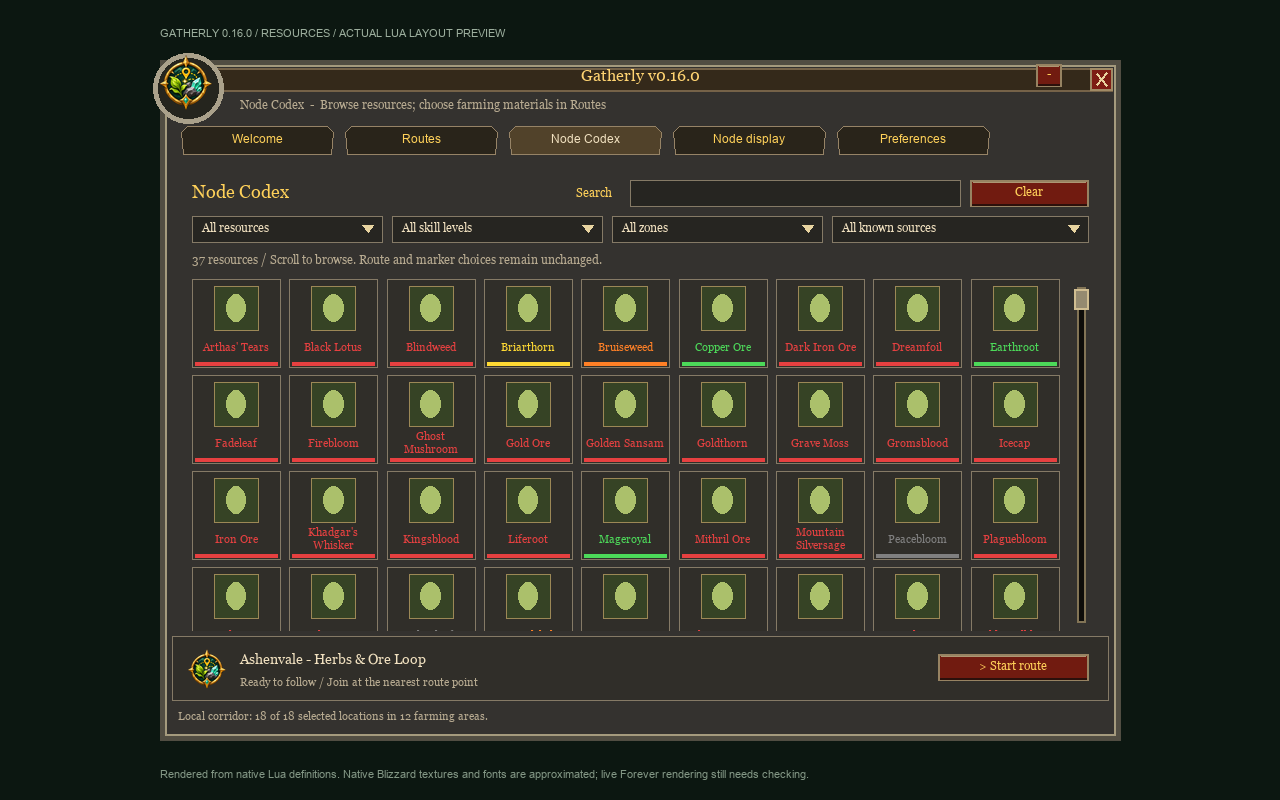
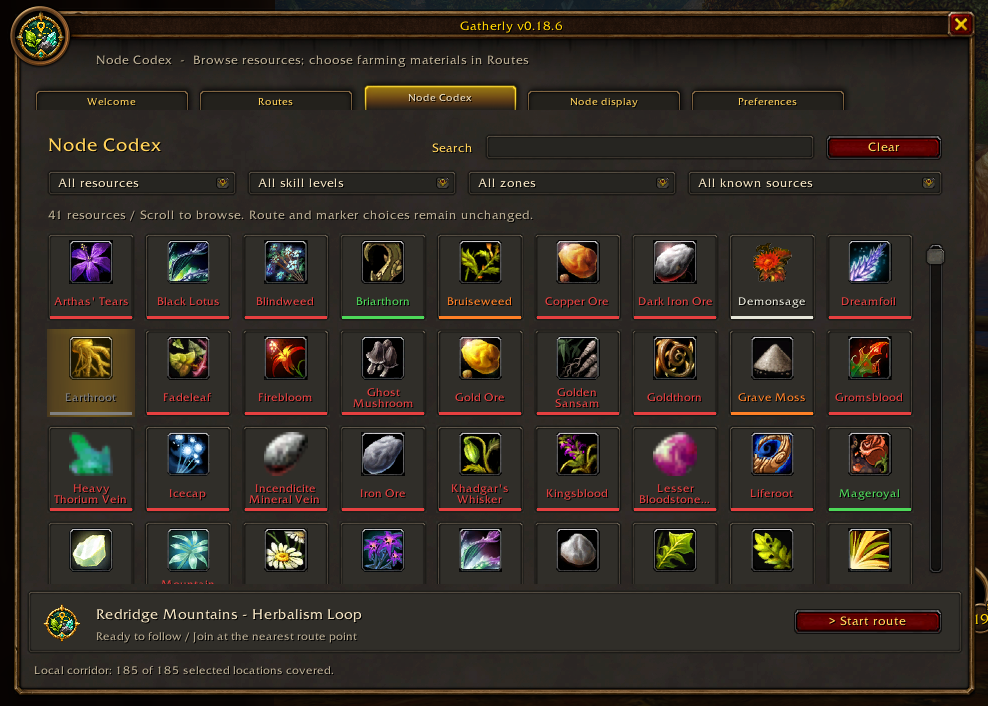
Replace UI previews with in-game screenshots

diff --git a/tests/curseforge_release.py b/tests/curseforge_release.py
@@ -20,8 +20,8 @@ w, h = struct.unpack('>II', icon[16:24])
 assert w == h and w >= 400
 description = (dist / data['description']).read_text(encoding='utf-8')
 assert description == (root / 'docs/curseforge-description.md').read_text(encoding='utf-8')
-assert 'not in-game screenshots' in description and '16001' in description
-for image in re.findall(r'https://raw.githubusercontent.com/Red463/Gatherly/v1\.0\.0/([^\s)]+)', description):
+assert 'in-game screenshots' in description and 'v0.18.6' in description and '16001' in description
+for image in re.findall(r'https://raw.githubusercontent.com/Red463/Gatherly/(?:v1\.0\.0|main)/([^\s)]+)', description):
     assert (root / image).is_file(), image
 changes = (dist / data['changelog']).read_text(encoding='utf-8')
 assert changes.startswith('## Gatherly 1.0.0\n') and 'EQoL' in changes and '## 0.' not in changes

diff --git a/tools/check_publication.py b/tools/check_publication.py
@@ -10,7 +10,9 @@ license_text = (root / 'LICENSE').read_text(encoding='utf-8')
 assert license_text.startswith('MIT License\n')
 assert 'Copyright (c) 2026 Tom' in license_text
 assert 'Bundled third-party libraries retain' in readme
-assert 'layout previews' in readme and 'not\nin-game screenshots' in readme
+assert 'in-game screenshots supplied by the author' in readme and '**v0.18.6**' in readme
+for diagram in ('coverage', 'route-order', 'minimap-smoothing'):
+    assert f'Generated {diagram} diagram:' in readme
 
 links = re.findall(r'!?\[[^\]]*\]\(([^)]+)\)', readme)
 links += re.findall(r'<img[^>]+src="([^"]+)"', readme)

diff --git a/README.md b/README.md
@@ -54,7 +54,7 @@ settings are unaffected.
 Untick **Show route controls** on the **Routes** page to disable it. The arrow and
 route guidance continue normally.
 
-![Movable Classic route controls with a minimap heatmap colour menu](docs/images/route-controls.png)
+![In-game compact route controls with Stop, Open panel, Skip and a heatmap colour swatch](docs/images/route-controls.png)
 
 ## Install
 
@@ -122,9 +122,10 @@ without an external data pack.
 
 ## Image examples
 
-These are **layout previews rendered from the addon's Lua UI**, with substitute
-fonts, placeholder resource icons and an illustrative map canvas. They are not
-in-game screenshots; actual Forever textures and rendering can differ.
+The interface examples are **in-game screenshots supplied by the author**, captured
+with Gatherly **v0.18.6** on WoW Forever. The visible version labels and settings are
+unchanged; the current release may differ slightly. The coverage, route-order and
+minimap-smoothing diagrams are generated illustrations, labelled separately below.
 
 ### Welcome and route targets
 
@@ -139,8 +140,6 @@ review sketch. Everyday map markers have separate selections under **Node displa
 Visible nodes**. Both use source/type checkboxes and skill-coloured materials. The route material list supports mouse-wheel
 scrolling and a scrollbar, with icons and skill-coloured names.
 
-![Checkbox filters and a vertically scrolling material list](docs/images/filters.png)
-
 ### Generate and review
 
 Choose materials, then use **Generate & start** or **Generate & review**. Click a node
@@ -151,7 +150,7 @@ map overlays are loaded from the client using attributed MIT metadata. If an art
 is not covered, the sketch falls back to native explored artwork. No OpenMap addon
 is required.
 
-![Large map-backed route review with node selection, removal and undo](docs/images/routes.png)
+![In-game Routes page with herb checkboxes and a line route over Redridge Mountains](docs/images/routes.png)
 
 The generator optimizes the order of the current farming areas to reduce crossings
 and repeated travel, then simplifies the centre path while keeping those locations
@@ -173,13 +172,13 @@ a new generation measures it again. Existing active routes are preserved until
 you replace them. Direct **Guide nearest** in Node Codex still targets that resource
 location and does not require corridor calibration.
 
-![The same corridor in Lines and Heatmap, with a covered spawn outside the painted band](docs/images/corridor-coverage.png)
+![Generated coverage diagram: the same corridor in Lines and Heatmap, with a covered spawn outside the painted band](docs/images/corridor-coverage.png)
 
 Some return trips remain necessary where a farming branch has only one short
 connection. Routes use map distances and cannot identify mountains, bridges or
 walkable roads from spawn coordinates.
 
-![Synthetic comparison with the same 94 farming areas before and after route-order optimization](docs/images/route-order.png)
+![Generated route-order diagram: the same 94 farming areas before and after optimization](docs/images/route-order.png)
 
 ### Overlapping nodes
 
@@ -211,8 +210,6 @@ required stop. Explicit travel waypoints remain, and a collected stop may serve 
 a travel waypoint when bypassing it would exceed the route's connection limit.
 Stored node locations and history are preserved.
 
-![Grouped review markers with an individual-location chooser](docs/images/grouped-nodes.png)
-
 ### Node Codex
 
 Node Codex combines the previous Atlas and Resources pages. Browse the full supported
@@ -232,8 +229,6 @@ actions identify an active route override or the opacity setting when relevant.
 Items without location data remain in the default full catalogue.
 
 ![Node Codex with skill-coloured tiles and browsing filters](docs/images/node-codex.png)
-
-![Codex skill guidance, history, ranked zones and current-zone actions](docs/images/codex-details.png)
 
 ### Heatmap corridor
 
@@ -258,11 +253,9 @@ custom minimap shapes hide heat rather than spilling outside the map. When Forev
 ignores minimap rotation, an addon-owned projection keeps icons, outlines and the
 destination aligned with the heat without modifying the shared pin library.
 
-![Soft density corridor over an illustrative map](docs/images/route-heatmap.png)
+![In-game heatmap route review over Redridge Mountains](docs/images/route-heatmap.png)
 
-![Amber minimap heat on illustrative dark terrain, with simulated tracking dots and player clearance](docs/images/minimap-heat.png)
-
-![Before and after minimap banding correction, rendered from actual Lua paint output over a flat background](docs/images/minimap-smoothing.png)
+![Generated minimap-smoothing diagram: before and after banding correction, rendered from Lua paint output over a flat background](docs/images/minimap-smoothing.png)
 
 ### Guide arrow
 
@@ -276,7 +269,7 @@ The waypoint arrival distance in Preferences applies immediately to the current
 route. Guidance waits during gathering; nearby overlapping stops retain movement
 protection so a stationary player cannot repeatedly advance through a loop.
 
-![Gold guide arrow with distance, optional next resource and waypoint/lap progress](docs/images/guide-arrow.png)
+![In-game gold guide arrow with distance, Farming corridor label and waypoint/lap progress](docs/images/guide-arrow.png)
 
 ## First farming loop
 
@@ -352,10 +345,6 @@ of node-marker visibility. Zero opacity hides that overlay without changing
 coverage, guidance or markers. Existing minimap opacity seeds both new minimap
 values; world values begin at their previous full strength.
 
-![World-map marker controls and preview](docs/images/node-display.png)
-
-![Minimap markers, tracking clearance and route-overlay controls](docs/images/node-display-mini.png)
-
 **Preferences** groups Navigation, Guide arrow and Panel & minimap controls.
 **Advance to next waypoint within** sets a radius: at15 yards, entering a15-yard
 radius advances the guide without requiring a harvest. Larger values advance sooner;
@@ -372,8 +361,6 @@ It follows EQoL Button Sink's position, size and visibility while collected.
 Dragging around the minimap resumes when the collector releases it. The Gatherly
 visibility preference still hides the launcher in either location.
 Use `/gatherly` to reopen the panel when its minimap button is hidden.
-
-![Centred minimap launcher using the supplied compass-and-leaf artwork](docs/images/minimap-launcher.png)
 
 ### Panel size
 
@@ -396,10 +383,6 @@ smaller preset that fits and explains this in Preferences. Only screens too smal
 for Small scale down the whole panel. Your preferred choice returns when space is
 available. These sizes use WoW's UI coordinates, rather than physical monitor pixels.
 Minimising preserves the preset; guide-arrow size remains independent.
-
-![Large fixed panel with a proportional route map and unchanged text size](docs/images/panel-resize.png)
-
-![Fixed size selection in Preferences](docs/images/panel-preferences.png)
 
 ## How to read the data
 

diff --git a/docs/curseforge-description.md b/docs/curseforge-description.md
@@ -24,11 +24,13 @@ Map-marker selections are independent of route targets. An optional route overri
 
 ## Interface examples
 
-These are layout previews rendered from Gatherly's Lua UI, with approximate native textures and fonts. They are not in-game screenshots.
+These in-game screenshots were captured with Gatherly v0.18.6 on WoW Forever. Version labels and settings are unchanged; the current release may differ slightly.
 
-![Route review](https://raw.githubusercontent.com/Red463/Gatherly/v1.0.0/docs/images/routes.png)
+![Line route review in Redridge Mountains](https://raw.githubusercontent.com/Red463/Gatherly/main/docs/images/routes.png)
 
-![Node Codex](https://raw.githubusercontent.com/Red463/Gatherly/v1.0.0/docs/images/node-codex.png)
+![Heatmap route review in Redridge Mountains](https://raw.githubusercontent.com/Red463/Gatherly/main/docs/images/route-heatmap.png)
+
+![Node Codex](https://raw.githubusercontent.com/Red463/Gatherly/main/docs/images/node-codex.png)
 
 ## Getting started
 

diff --git a/CONTRIBUTING.md b/CONTRIBUTING.md
@@ -40,9 +40,11 @@ with `python tools/build_branding.py` only when you intend to update those asset
 
 `python tools/render_ui_preview.py` creates illustrative layouts from the real Lua
 frame tree. The preview scripts currently use Windows system fonts and substitute
-native textures. These previews are not in-game screenshots. Curated README images
-are in `docs/images/`; include a real screenshot separately when reporting a native
-rendering issue.
+native textures. These previews are not in-game screenshots and belong in the
+ignored `docs/previews/` directory. Curated in-game screenshots are in
+`docs/images/`; preserve their original pixels and visible version labels. Generated
+technical diagrams in that directory must stay clearly labelled as illustrations.
+Include a real screenshot when reporting a native rendering issue.
 
 ## Scope and licensing
 

diff --git a/docs/curseforge-release.md b/docs/curseforge-release.md
@@ -41,8 +41,11 @@ minimap callbacks, collapsed containers, dragging, return to the minimap and
 visibility changes. This does not replace a final in-game check with the installed
 EQoL version. Existing Gatherly SavedVariables remain compatible.
 
-The gallery assets are clearly labelled layout previews. Add actual in-game
-captures separately when available; do not describe the previews as screenshots.
+The interface gallery uses supplied in-game screenshots captured on v0.18.6.
+Keep the original version labels and settings visible; they may differ from the
+current release. Coverage, route-order and minimap-smoothing diagrams in the README
+remain labelled as generated illustrations. Documentation image links follow
+the main branch; existing release tags and uploaded assets remain unchanged.
 
 References:
 
